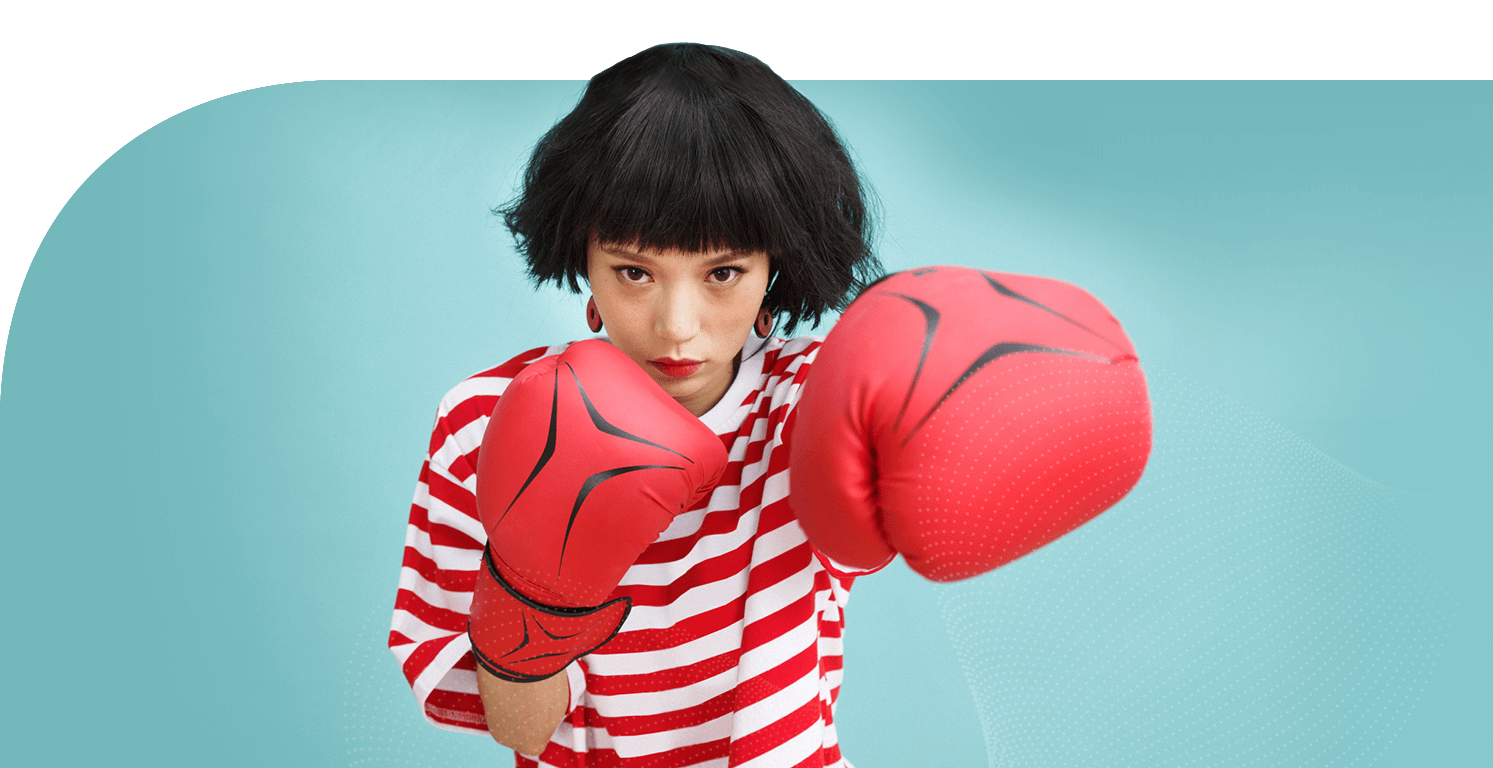
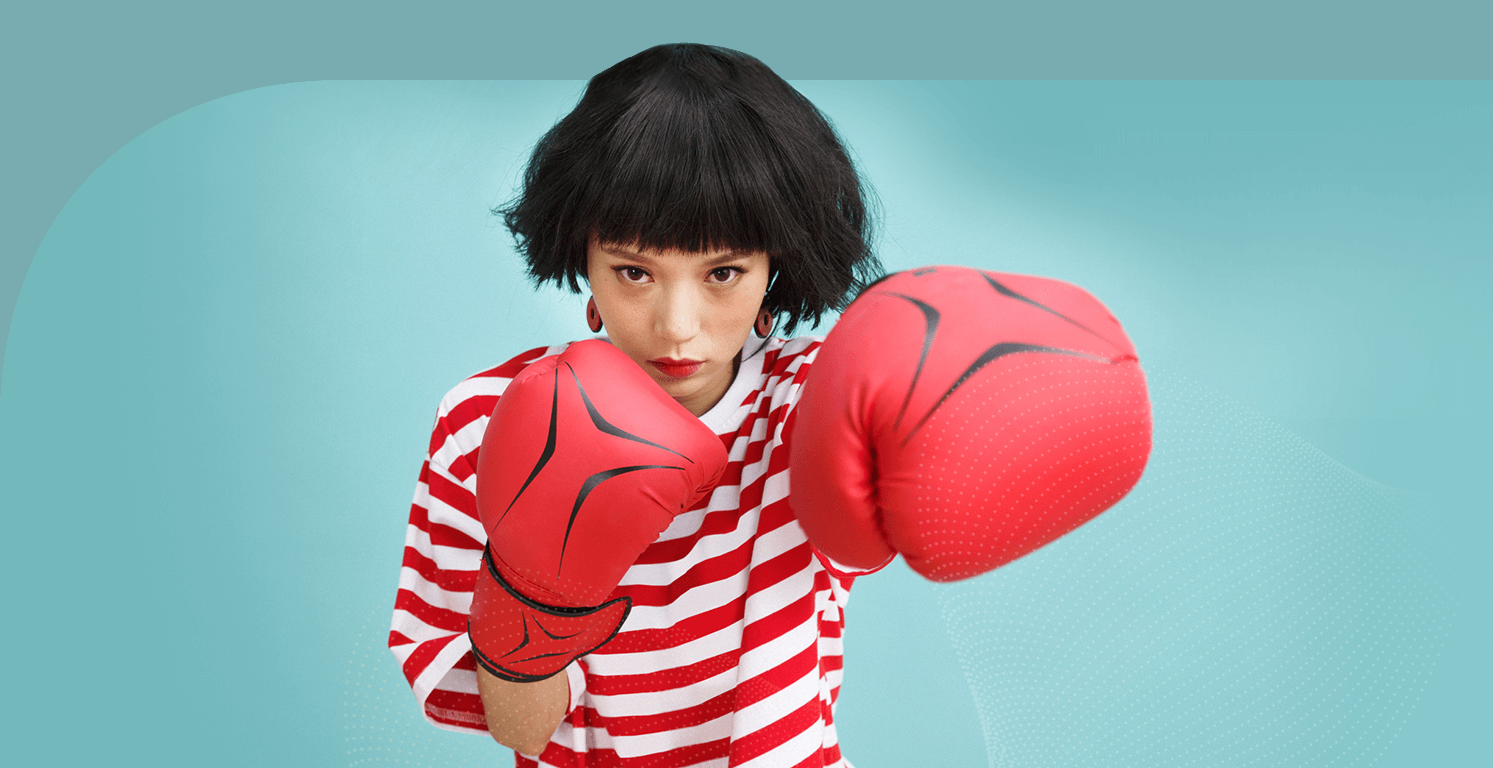
备份首页的slider图片

Changed region(s): [[0.0, 0.0, 1.0, 0.4688]]

diff --git a/src/index/index.js b/src/index/index.js
@@ -7,15 +7,14 @@ $(function(){
     direction: 'horizontal', // 垂直切换选项
     loop: true, // 循环模式选项
     effect : 'fade',
-    speed:300,
+    speed: 600,
     initialSlide: 0,
     on: {
       slideChangeTransitionStart: function(){
         // alert(this.activeIndex);
         var aim = this.realIndex;
-
         if(aim == 0) {
-          $('.index-banner, .index-banner .swiper-wrap .swiper-container .swiper-slide').css({
+          $('.index-banner').css({
             backgroundColor: '#dcae45'
           })
           $('.index-banner').css({
@@ -30,7 +29,7 @@ $(function(){
           $('.index-banner .info h3').text('Vision | Mission | Value proposition')
           $('.index-banner .info p').text('Big data analytics and technology innovation company focused around improving human health.')
         }else if (aim == 1) {
-          $('.index-banner, .index-banner .swiper-wrap .swiper-container .swiper-slide, .shadowWrap').css({
+          $('.index-banner').css({
             backgroundColor: '#78acb0'
           })
           $('.shadowWrap').css({
@@ -42,7 +41,7 @@ $(function(){
           $('.index-banner .info h3').text('We rely on big data analytics, cloud computing and artificial intelligence in our suite of healthcare')
           $('.index-banner .info p').text('Technology solutions to ensure our customers have the best data and insights .')
         }else if (aim == 2) {
-          $('.index-banner, .index-banner .swiper-wrap .swiper-container .swiper-slide, .shadowWrap').css({
+          $('.index-banner').css({
             backgroundColor: '#c9162a'
           })
           $('.shadowWrap').css({
@@ -54,7 +53,7 @@ $(function(){
           $('.index-banner .info h3').text('Next generation healthcare & life')
           $('.index-banner .info p').text('healthcare & life science analytics architecture built from the ground-up to support customer success in the big data era.')
         }else if (aim == 3) {
-          $('.index-banner, .index-banner .swiper-wrap .swiper-container .swiper-slide, .shadowWrap').css({
+          $('.index-banner').css({
             backgroundColor: '#70544f'
           })
           $('.shadowWrap').css({

diff --git a/pwd.html b/pwd.html
@@ -1,0 +1,72 @@
+<!DOCTYPE html>
+<html lang="en">
+<head>
+  <meta charset="UTF-8">
+  <!-- <meta name="viewport" content="width=device-width, initial-scale=1.0, maximum-scale=1.0 "> -->
+  <meta http-equiv="X-UA-Compatible" content="webkit">
+  <title>CW DATA</title>
+  <link rel="stylesheet" href="/common/css/reset.css">
+  <link rel="stylesheet" href="/common/css/common.css">
+  <link rel="stylesheet" href="/common/css/font-awesome.min.css">
+  <link rel="stylesheet" href="/src/index/index.css">
+  <link rel="stylesheet" href="/common/js/swiper/swiper.min.css">
+  <script src="/common/js/jquery.min.js"></script>
+  <script src="/common/js/common.js"></script>
+  <script src="/common/js/swiper/swiper.min.js"></script>
+  <script src="/src/index/index.js"></script>
+  <style>
+    .bg {
+      position: fixed;
+      top: 0;
+      left: 0;
+      bottom: 0;
+      right: 0;
+      background: url(/common/img/pwd.png) no-repeat center;
+      background-size: cover;
+    }
+    .bg .logo {
+      display: block;
+      position: absolute;
+      top: 50px;
+      left: 50px;
+      z-index: 9;
+    }
+    .bg .wrap {
+      width: 520px;
+      height: 140px;
+      background-color: #fff;
+      border-radius: 10px;
+      left: 50%;
+      top: 50%;
+      margin-left: -260px;
+      margin-top: -80px;
+      position: fixed;
+    }
+    .bg .wrap h1 {
+      font-size: 22px;
+      text-align: center;
+      font-weight: bolder;
+      padding-top: 20px;
+      padding-bottom: 30px;
+    }
+    .bg .wrap input {
+      background-color: #f3f3f3;
+      width: 400px;
+      height: 30px;
+      line-height: 30px;
+      text-indent: 10px;
+      display: block;
+      margin: 0 auto;
+    }
+  </style>
+</head>
+<body>
+  <div class="bg">
+    <img src="/common/img/logo1.png" alt="" class="logo">
+    <div class="wrap">
+      <h1>登录</h1>
+      <input type="text" placeholder="请输入密码">
+    </div>
+  </div>
+</body>
+</html>

diff --git a/src/index/index.css b/src/index/index.css
@@ -5,11 +5,11 @@ body {
   /* display: none; */
 }
 .index-banner {
-  background-color: #dcae45;
+  /* background-color: transparent !important; */
   position: relative;
   min-width: 1400px;
   overflow: auto;
-  /* transition: all .3s; */
+  transition: all .6s;
 }
 .index-banner .swiper-wrap {
   position: absolute;

diff --git a/index.html b/index.html
@@ -286,6 +286,6 @@
   <div class="fakeFooter">
     <img src="/common/img/footer.jpg" alt="">
   </div>
-  <script src="/src/index/star.js"></script>
+  <!-- <script src="/src/index/star.js"></script> -->
 </body>
 </html>

diff --git a/common/css/common.css b/common/css/common.css
@@ -270,6 +270,7 @@ body {
   border-top-left-radius: 30px;
 }
 .common-item .cover img {
+  border-top-left-radius: 30px;
   display: block;
   width: 256px;
   height: 160px;
